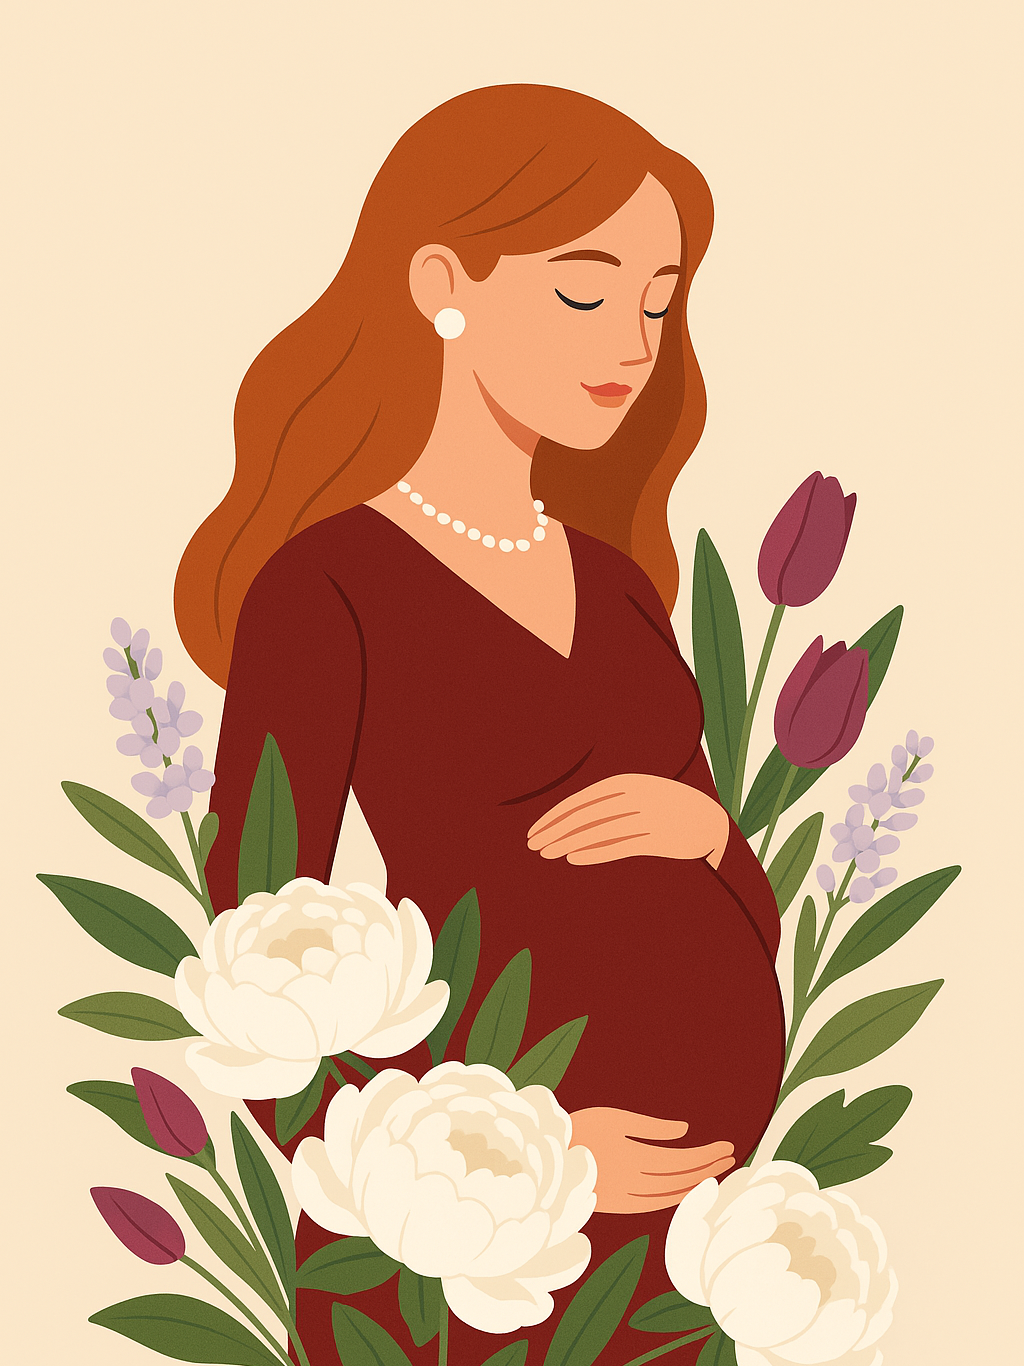
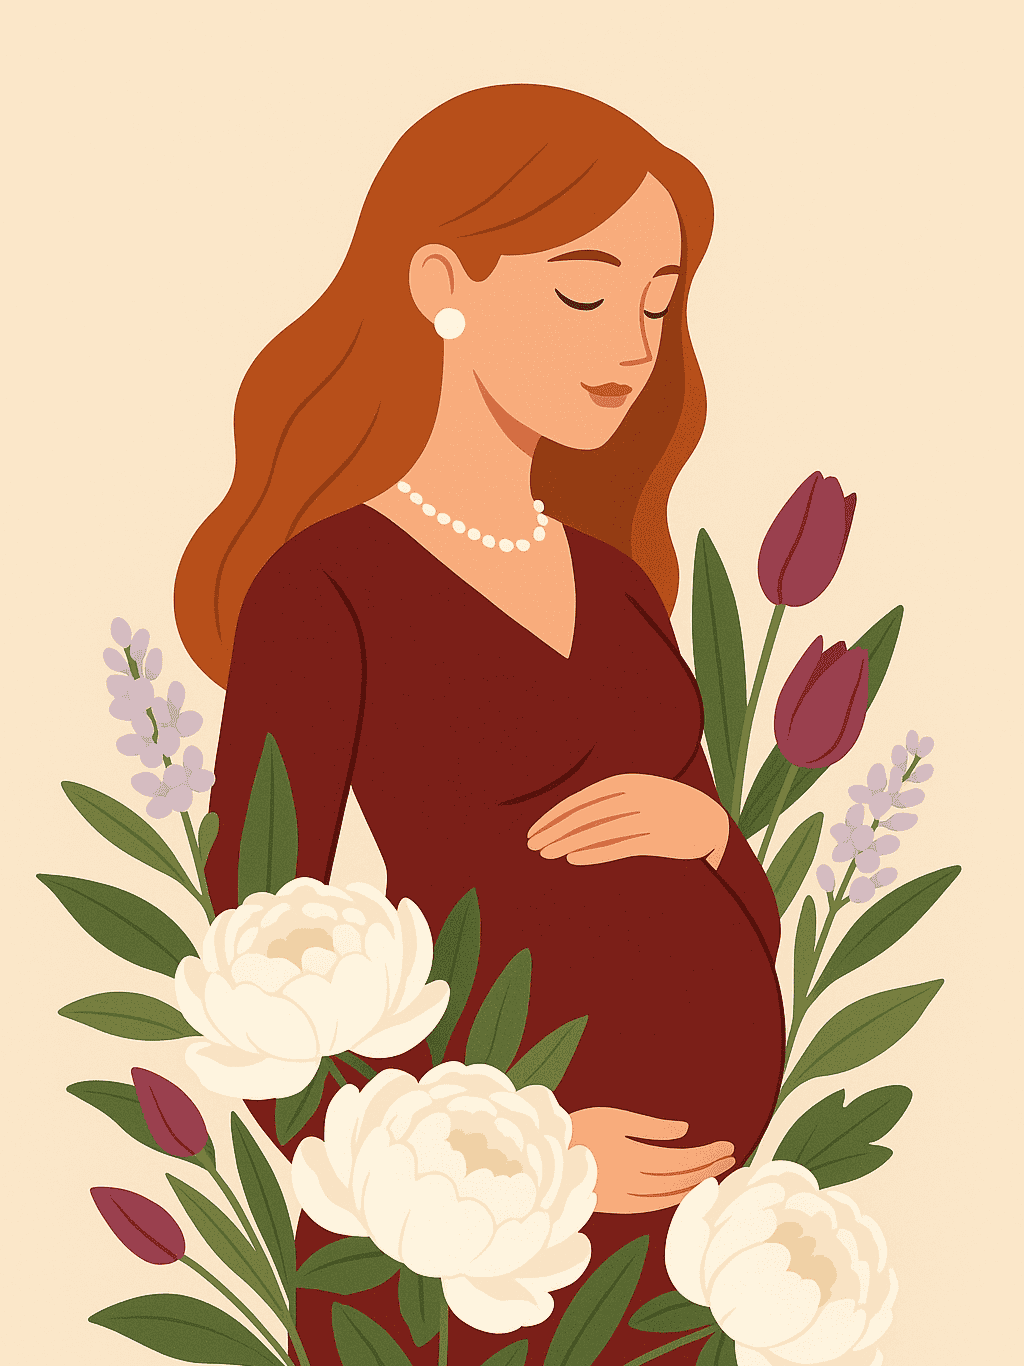
new posts

diff --git a/docs/ru/posts/first_giving_birth/index.html b/docs/ru/posts/first_giving_birth/index.html
@@ -292,7 +292,7 @@
 <p>Что касается финансовой стороны вопроса, то все расходы, связанные с визитами к врачам, эхограммами и анализами, покрывались нашей страховкой. Единственное, что менялось - это степень участия страховых компаний. Напримеру, с самого начала беременности общеобязательная страховка покрывает 100% размере 7 обязательных осмотров, все остальное возмещается по стандартной схеме: 70% - общеобязательная страховка и 30% - дополнительное страхование. Начиная с шестого месяца беременности обязательная страховка покрывает все расходы, связанные с беременностью.  Дополнительная страховка снова вступила в силу лишь в момент моего пребывания в госпитале.</p>
 <p><div style="text-align: center">
     
-<figure><img src="/images/post-7-first-giving-birth/B_W_B_Birth_Announcement_Madame_Dutykh_17.jpg">
+<figure><img src="/madamedutykh/images/post-7-first-giving-birth/B_W_B_Birth_Announcement_Madame_Dutykh_17.png">
 </figure>
 
 

diff --git a/docs/en/posts/first_giving_birth/index.html b/docs/en/posts/first_giving_birth/index.html
@@ -296,7 +296,7 @@ A woman’s social life, as a rule, doesn’t change much. More often, until the
 <p>As for the financial aspect, all costs related to doctor visits, ultrasounds, and tests were covered by our insurance. What changed was the level of participation from the insurance companies. For example, from the starts of the pregnancy, the mandatory insurance covers 100% of the costs for the 7 mandatory check-ups, with everything else reimbursed at the usual rate: 70% by the mandatory insurance and 30% by supplementary insurance. Starting from the sixth month of pregnancy, the mandatory insurance covers all pregnancy-related expenses. The supplementary insurance only came into play during my stay in the hospital.</p>
 <p><div style="text-align: center">
     
-<figure><img src="/images/post-7-first-giving-birth/B_W_B_Birth_Announcement_Madame_Dutykh_17.jpg">
+<figure><img src="/madamedutykh/images/post-7-first-giving-birth/B_W_B_Birth_Announcement_Madame_Dutykh_17.png">
 </figure>
 
 

diff --git a/content/ru/posts/First_giving_birth.ru.md b/content/ru/posts/First_giving_birth.ru.md
@@ -170,6 +170,6 @@ seo:
 Что касается финансовой стороны вопроса, то все расходы, связанные с визитами к врачам, эхограммами и анализами, покрывались нашей страховкой. Единственное, что менялось - это степень участия страховых компаний. Напримеру, с самого начала беременности общеобязательная страховка покрывает 100% размере 7 обязательных осмотров, все остальное возмещается по стандартной схеме: 70% - общеобязательная страховка и 30% - дополнительное страхование. Начиная с шестого месяца беременности обязательная страховка покрывает все расходы, связанные с беременностью.  Дополнительная страховка снова вступила в силу лишь в момент моего пребывания в госпитале.
 
 {{< style align="center" >}}
-{{< figure src="/images/post-7-first-giving-birth/B_W_B_Birth_Announcement_Madame_Dutykh_17.jpg" >}}
+{{< figure src="/images/post-7-first-giving-birth/B_W_B_Birth_Announcement_Madame_Dutykh_17.png" >}}
 {{< /style >}}
 <br>

diff --git a/content/en/posts/First_giving_birth.en.md b/content/en/posts/First_giving_birth.en.md
@@ -178,6 +178,6 @@ Perhaps the French do something similar too, but in my case, everything was rath
 As for the financial aspect, all costs related to doctor visits, ultrasounds, and tests were covered by our insurance. What changed was the level of participation from the insurance companies. For example, from the starts of the pregnancy, the mandatory insurance covers 100% of the costs for the 7 mandatory check-ups, with everything else reimbursed at the usual rate: 70% by the mandatory insurance and 30% by supplementary insurance. Starting from the sixth month of pregnancy, the mandatory insurance covers all pregnancy-related expenses. The supplementary insurance only came into play during my stay in the hospital.
 
 {{< style align="center" >}}
-{{< figure src="/images/post-7-first-giving-birth/B_W_B_Birth_Announcement_Madame_Dutykh_17.jpg" >}}
+{{< figure src="/images/post-7-first-giving-birth/B_W_B_Birth_Announcement_Madame_Dutykh_17.png" >}}
 {{< /style >}}
 <br>
